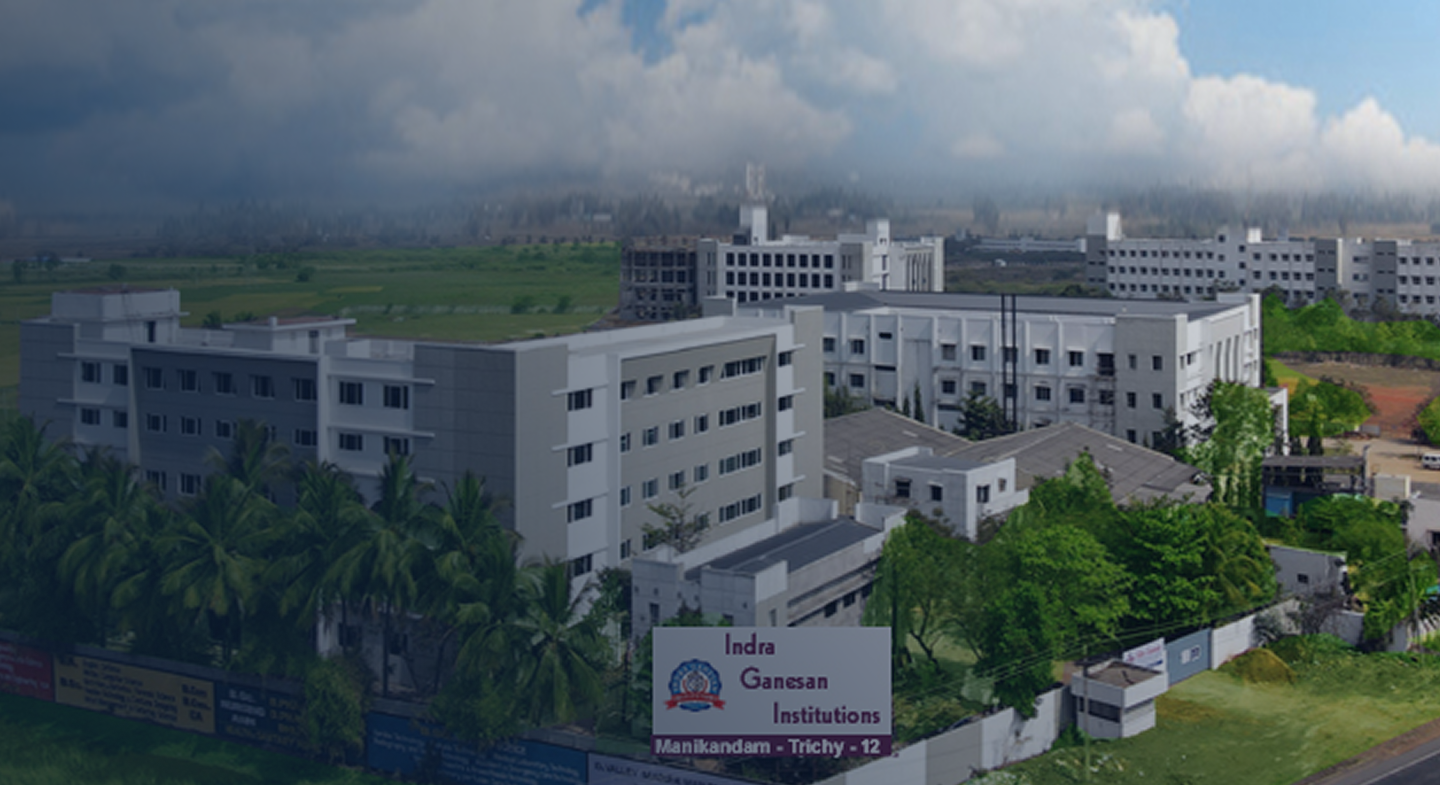
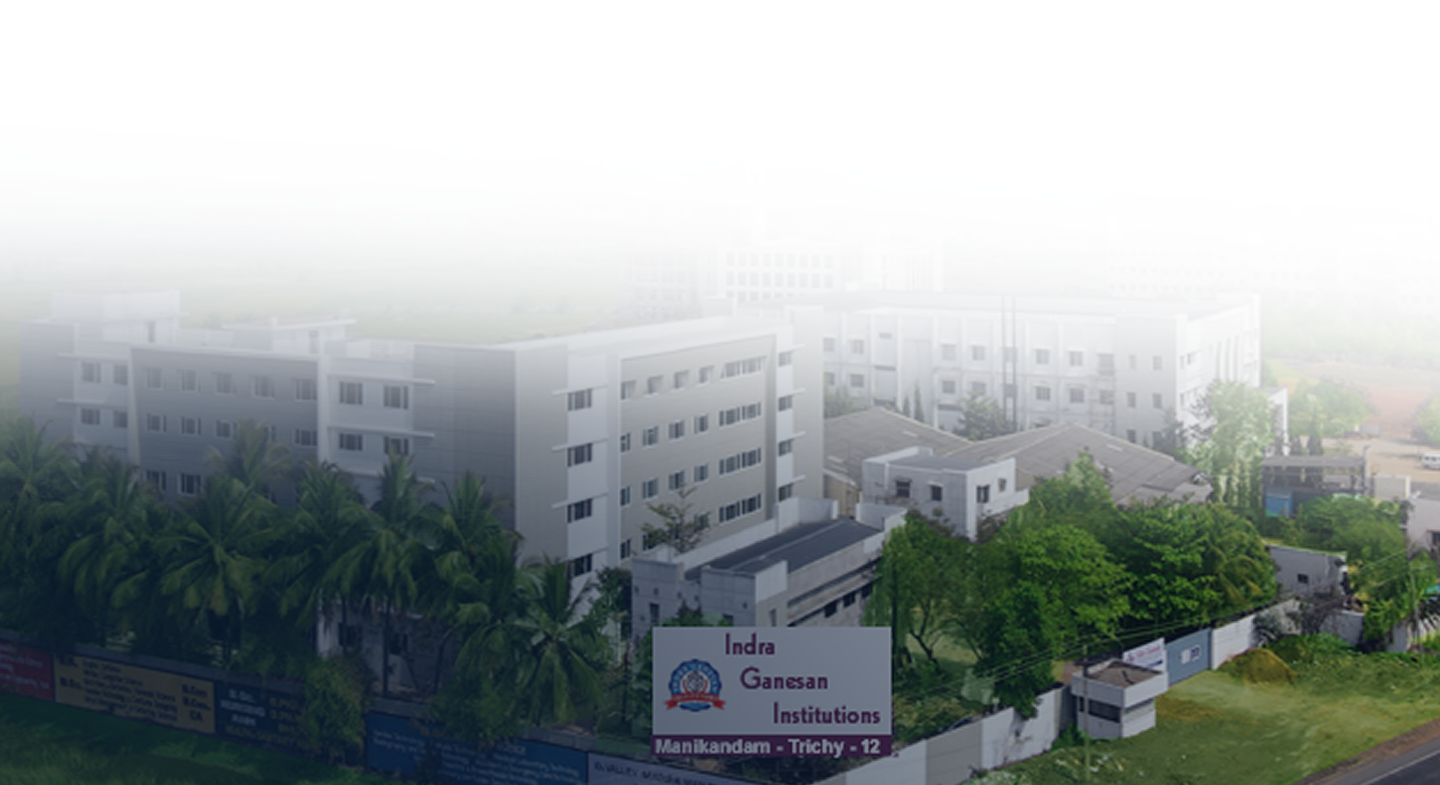
feat: Update hero section background and layout, add new image, and adjust container width

diff --git a/index.html b/index.html
@@ -146,10 +146,16 @@
             font-weight: 600;
         }
 
+        /* Hero specific container override */
+        .hero .container {
+            max-width: 1560px;
+            /* Increased width for hero section */
+        }
+
         /* --- Hero Section --- */
         .hero {
             position: relative;
-            background: linear-gradient(to bottom, rgba(255, 255, 255, 0.95), rgba(0, 0, 0, 0)), url('assets/images/section_first.png') no-repeat center center/cover;
+            background: url('assets/images/section_first.png') no-repeat center center/cover;
             padding: 40px 0;
             min-height: 800px;
             display: flex;
@@ -186,19 +192,18 @@
 
         .hero-logo-container {
             /* Removed pill style to match the new wide layout */
-            display: inline-flex;
-            align-items: center;
-            gap: 20px;
+            display: block;
+            width: 100%;
             margin-bottom: 30px;
         }
 
         .hero-logo-container img {
-            height: 199px;
-            /* Increased size to match the amount of text */
+            width: 100%;
+            height: auto;
             /* background: linear-gradient(to bottom, rgba(255, 255, 255, 0), rgba(255, 255, 255, 0.95)); */
             /* Gradient to highlight bottom text */
             /* backdrop-filter: blur(4px); */
-            padding: 15px;
+            /* padding: 15px; */
             /* border-radius: 20px; */
             /* box-shadow: 0 4px 15px rgba(0, 0, 0, 0.1); */
         }
@@ -259,6 +264,7 @@
             font-family: 'Poppins', sans-serif;
             color: #ffffff;
             margin-bottom: 40px;
+            margin-top: 86px;
             text-shadow: 0 2px 10px rgba(0, 0, 0, 0.3);
         }
 
@@ -1244,13 +1250,6 @@
             <div class="hero-left-col">
                 <div class="hero-logo-container">
                     <img src="assets/images/indra_header.png" alt="Indra Ganesan College of Engineering">
-                    <!-- <div class="hero-text-block">
-                        <div class="ht-tamil">இந்திரா கணேசன் பொறியியல் கல்லூரி</div>
-                        <div class="ht-title">Indra Ganesan College of Engineering</div>
-                        <div class="ht-subtitle">An Autonomous Institution</div>
-                        <div class="ht-address">Manikandam, Tiruchirapalli, Tamil Nadu, India. 620 012</div>
-                        <div class="ht-accreditation">(Accredited with B++ Grade by NAAC)</div>
-                    </div> -->
                 </div>
 
                 <div class="hero-headline">
